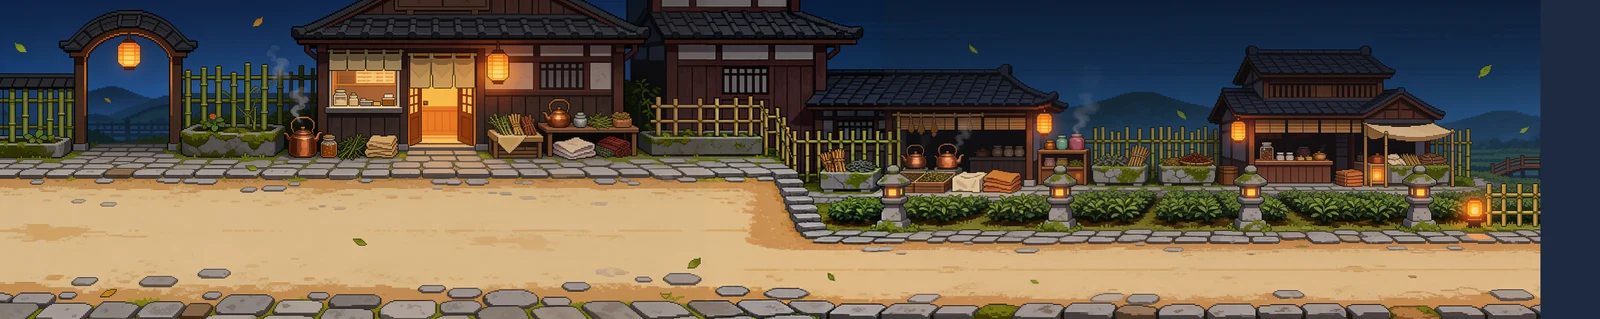
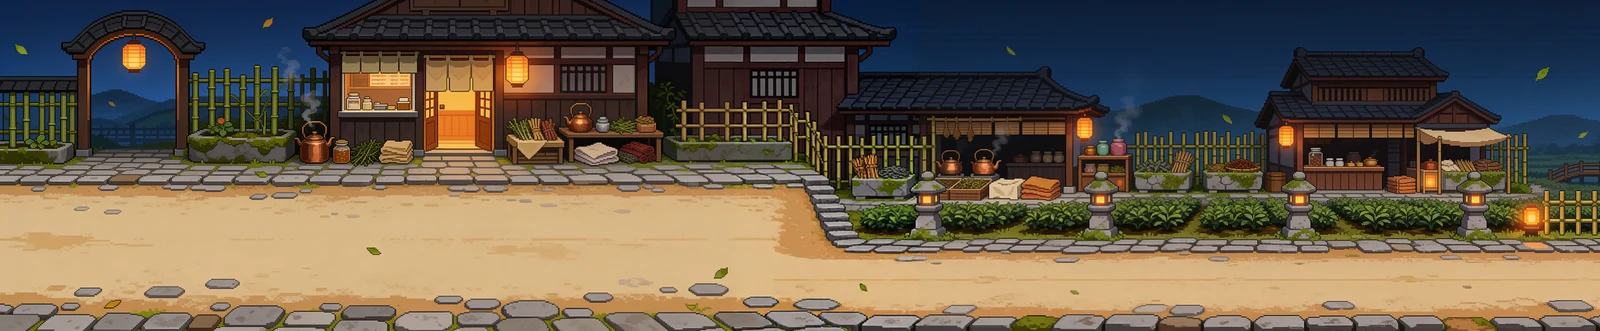
Update village market race background asset and styles
Replit-Commit-Author: Agent

diff --git a/artifacts/mystery-bento/src/index.css b/artifacts/mystery-bento/src/index.css
@@ -544,7 +544,6 @@
 .race-track-debug-viewport.is-dragging { cursor: grabbing; }
 .race-track-debug-world { display: flex; min-width: max-content; }
 .race-track-debug-scene { position: relative; flex: 0 0 auto; overflow: hidden; }
-.race-track-debug-scene + .race-track-debug-scene { border-left: 2px solid rgba(245,201,104,.8); }
 .race-track-debug-scene img { display: block; width: 100%; height: 100%; object-fit: fill; image-rendering: pixelated; user-select: none; pointer-events: none; }
 .race-track-debug-scene-label { position: absolute; top: 16px; left: 16px; display: grid; gap: 3px; padding: 9px 11px; color: #fff0cf; background: rgba(23,18,29,.78); border-left: 3px solid #f5c968; box-shadow: 4px 4px 0 rgba(23,18,29,.35); }
 .race-track-debug-scene-label span,

diff --git a/artifacts/mystery-bento/src/race-backgrounds.ts b/artifacts/mystery-bento/src/race-backgrounds.ts
@@ -21,7 +21,7 @@ export const RACE_BACKGROUND_SEQUENCE: RaceBackgroundScene[] = [
     file: 'race-background-01-village-market.webp',
     sourceAsset: 'scene1_1788633612334.webp',
     label: 'village market street',
-    aspectRatio: 13000 / 2592,
+    aspectRatio: 12516 / 2592,
   },
   {
     id: 'tea-stall-crossing',
